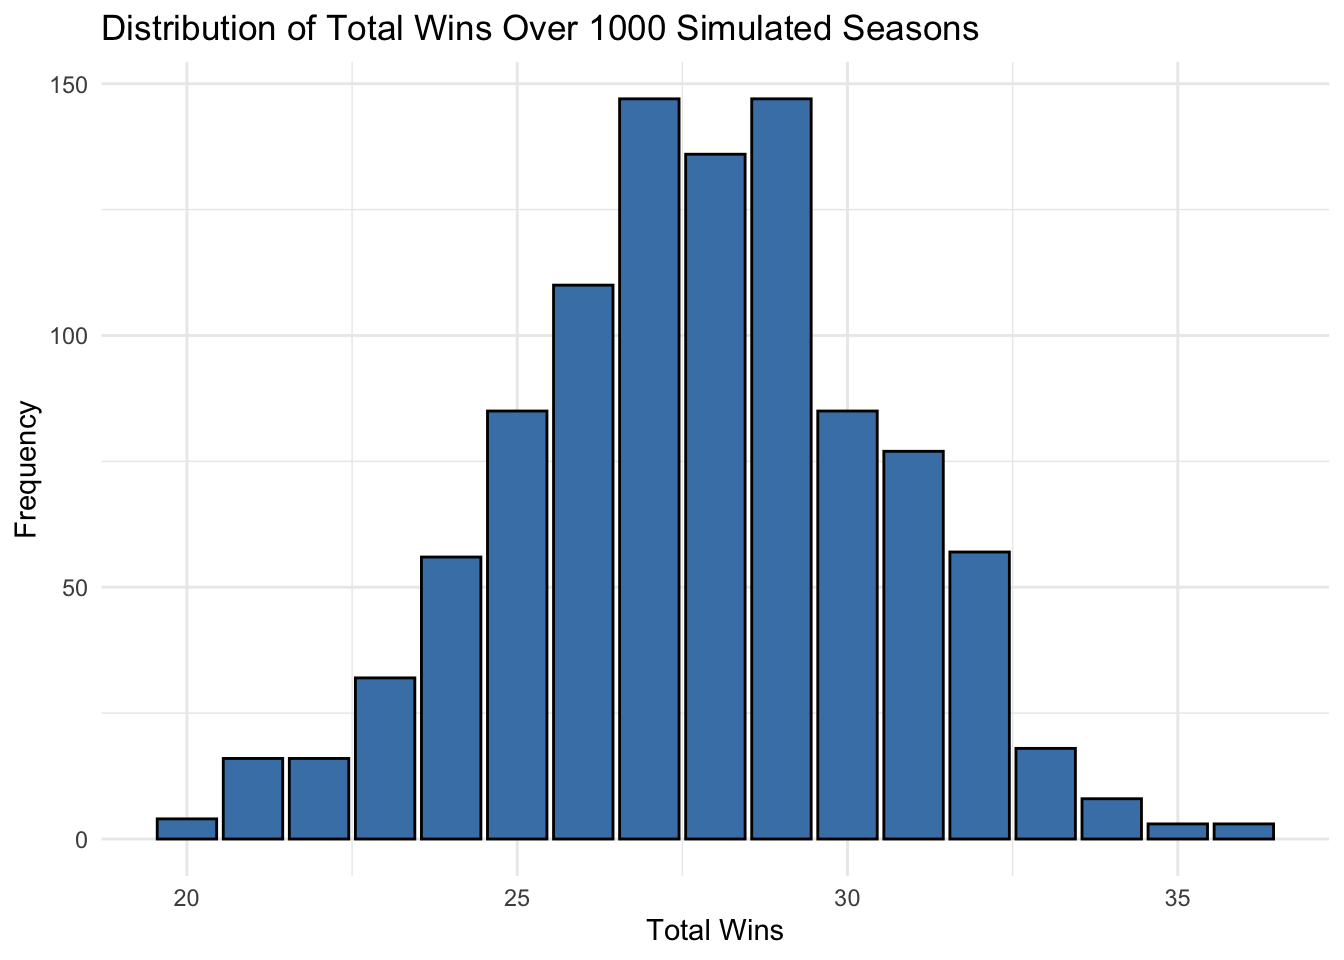
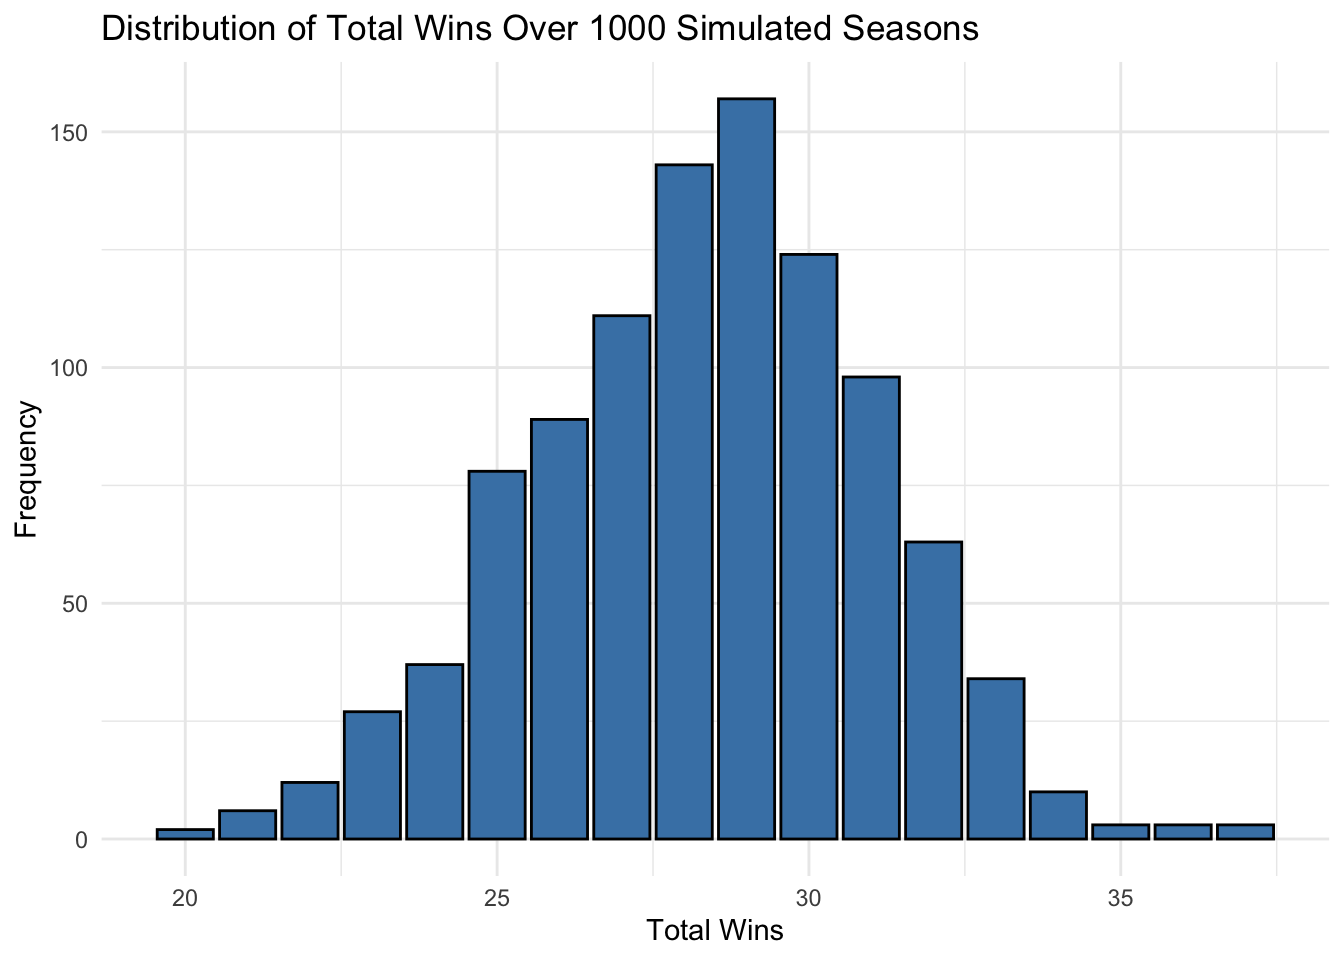
updating schedule. La Verne +1 game

diff --git a/docs/Final6.html b/docs/Final6.html
@@ -204,7 +204,7 @@ pre > code.sourceCode > span > a:first-child::before { text-decoration: underlin
 <div class="sourceCode cell-code" id="cb1"><pre class="sourceCode r code-with-copy"><code class="sourceCode r"><span id="cb1-1"><a href="#cb1-1" aria-hidden="true" tabindex="-1"></a><span class="co"># Create a multi-line string with your data</span></span>
 <span id="cb1-2"><a href="#cb1-2" aria-hidden="true" tabindex="-1"></a>raw_text <span class="ot">&lt;-</span> <span class="st">"</span></span>
 <span id="cb1-3"><a href="#cb1-3" aria-hidden="true" tabindex="-1"></a><span class="st">CMS 0.56 3</span></span>
-<span id="cb1-4"><a href="#cb1-4" aria-hidden="true" tabindex="-1"></a><span class="st">La_Verne 0.55 3</span></span>
+<span id="cb1-4"><a href="#cb1-4" aria-hidden="true" tabindex="-1"></a><span class="st">La_Verne 0.55 4</span></span>
 <span id="cb1-5"><a href="#cb1-5" aria-hidden="true" tabindex="-1"></a><span class="st">ETBU 0.53 3</span></span>
 <span id="cb1-6"><a href="#cb1-6" aria-hidden="true" tabindex="-1"></a><span class="st">Occidental 0.85 3</span></span>
 <span id="cb1-7"><a href="#cb1-7" aria-hidden="true" tabindex="-1"></a><span class="st">Cal_Lu 0.60 3</span></span>
@@ -228,7 +228,7 @@ pre > code.sourceCode > span > a:first-child::before { text-decoration: underlin
 <div class="cell-output cell-output-stdout">
 <pre><code>               team win_prob games
 1               CMS     0.56     3
-2          La_Verne     0.55     3
+2          La_Verne     0.55     4
 3              ETBU     0.53     3
 4        Occidental     0.85     3
 5            Cal_Lu     0.60     3
@@ -255,7 +255,7 @@ pre > code.sourceCode > span > a:first-child::before { text-decoration: underlin
 <span id="cb3-8"><a href="#cb3-8" aria-hidden="true" tabindex="-1"></a>  <span class="at">win_prob =</span> <span class="fu">c</span>(<span class="fl">0.56</span>, <span class="fl">0.55</span>, <span class="fl">0.53</span>, <span class="fl">0.85</span>, <span class="fl">0.60</span>, <span class="fl">0.95</span>, <span class="fl">0.84</span>,</span>
 <span id="cb3-9"><a href="#cb3-9" aria-hidden="true" tabindex="-1"></a>               <span class="fl">0.71</span>, <span class="fl">0.73</span>, <span class="fl">0.60</span>, <span class="fl">0.74</span>, <span class="fl">0.60</span>,</span>
 <span id="cb3-10"><a href="#cb3-10" aria-hidden="true" tabindex="-1"></a>               <span class="fl">0.80</span>, <span class="fl">0.54</span>, <span class="fl">0.65</span>),</span>
-<span id="cb3-11"><a href="#cb3-11" aria-hidden="true" tabindex="-1"></a>  <span class="at">games =</span> <span class="fu">c</span>(<span class="dv">3</span>, <span class="dv">3</span>, <span class="dv">3</span>, <span class="dv">3</span>, <span class="dv">3</span>, <span class="dv">3</span>, <span class="dv">4</span>,</span>
+<span id="cb3-11"><a href="#cb3-11" aria-hidden="true" tabindex="-1"></a>  <span class="at">games =</span> <span class="fu">c</span>(<span class="dv">3</span>, <span class="dv">4</span>, <span class="dv">3</span>, <span class="dv">3</span>, <span class="dv">3</span>, <span class="dv">3</span>, <span class="dv">4</span>,</span>
 <span id="cb3-12"><a href="#cb3-12" aria-hidden="true" tabindex="-1"></a>            <span class="dv">3</span>, <span class="dv">2</span>, <span class="dv">3</span>, <span class="dv">3</span>, <span class="dv">1</span>,</span>
 <span id="cb3-13"><a href="#cb3-13" aria-hidden="true" tabindex="-1"></a>            <span class="dv">2</span>, <span class="dv">1</span>, <span class="dv">3</span>)</span>
 <span id="cb3-14"><a href="#cb3-14" aria-hidden="true" tabindex="-1"></a>)</span>
@@ -302,17 +302,17 @@ Attaching package: 'dplyr'</code></pre>
    team             win_prob games  wins losses
    &lt;chr&gt;               &lt;dbl&gt; &lt;dbl&gt; &lt;int&gt;  &lt;dbl&gt;
  1 CMS                  0.56     3     1      2
- 2 La Verne             0.55     3     1      2
+ 2 La Verne             0.55     4     1      3
  3 ETBU                 0.53     3     1      2
- 4 Occidental           0.85     3     3      0
+ 4 Occidental           0.85     3     2      1
  5 Cal Lu               0.6      3     2      1
  6 Cal Tech             0.95     3     2      1
- 7 Whittier             0.84     4     3      1
- 8 Lewis and Clark      0.71     3     1      2
- 9 Pacific Lutheran     0.73     2     2      0
+ 7 Whittier             0.84     4     2      2
+ 8 Lewis and Clark      0.71     3     2      1
+ 9 Pacific Lutheran     0.73     2     1      1
 10 Chapman              0.6      3     1      2
 11 Redlands             0.74     3     2      1
-12 Williamette          0.6      1     0      1
+12 Williamette          0.6      1     1      0
 13 MIT                  0.8      2     1      1
 14 UW La Crosse         0.54     1     1      0
 15 Tufts                0.65     3     2      1</code></pre>
@@ -325,11 +325,11 @@ Season Summary:</code></pre>
 </div>
 <div class="sourceCode cell-code" id="cb11"><pre class="sourceCode r code-with-copy"><code class="sourceCode r"><span id="cb11-1"><a href="#cb11-1" aria-hidden="true" tabindex="-1"></a><span class="fu">cat</span>(<span class="st">"Total Wins:"</span>, season<span class="sc">$</span>total_wins, <span class="st">"</span><span class="sc">\n</span><span class="st">"</span>)</span></code><button title="Copy to Clipboard" class="code-copy-button"><i class="bi"></i></button></pre></div>
 <div class="cell-output cell-output-stdout">
-<pre><code>Total Wins: 23 </code></pre>
+<pre><code>Total Wins: 22 </code></pre>
 </div>
 <div class="sourceCode cell-code" id="cb13"><pre class="sourceCode r code-with-copy"><code class="sourceCode r"><span id="cb13-1"><a href="#cb13-1" aria-hidden="true" tabindex="-1"></a><span class="fu">cat</span>(<span class="st">"Total Losses:"</span>, season<span class="sc">$</span>total_losses, <span class="st">"</span><span class="sc">\n</span><span class="st">"</span>)</span></code><button title="Copy to Clipboard" class="code-copy-button"><i class="bi"></i></button></pre></div>
 <div class="cell-output cell-output-stdout">
-<pre><code>Total Losses: 17 </code></pre>
+<pre><code>Total Losses: 19 </code></pre>
 </div>
 </div>
 <div class="cell">
@@ -346,7 +346,7 @@ Season Summary:</code></pre>
 <span id="cb15-11"><a href="#cb15-11" aria-hidden="true" tabindex="-1"></a>  <span class="at">win_prob =</span> <span class="fu">c</span>(<span class="fl">0.56</span>, <span class="fl">0.55</span>, <span class="fl">0.53</span>, <span class="fl">0.85</span>, <span class="fl">0.60</span>, <span class="fl">0.95</span>, <span class="fl">0.84</span>,</span>
 <span id="cb15-12"><a href="#cb15-12" aria-hidden="true" tabindex="-1"></a>               <span class="fl">0.71</span>, <span class="fl">0.73</span>, <span class="fl">0.60</span>, <span class="fl">0.74</span>, <span class="fl">0.60</span>,</span>
 <span id="cb15-13"><a href="#cb15-13" aria-hidden="true" tabindex="-1"></a>               <span class="fl">0.80</span>, <span class="fl">0.54</span>, <span class="fl">0.65</span>),</span>
-<span id="cb15-14"><a href="#cb15-14" aria-hidden="true" tabindex="-1"></a>  <span class="at">games =</span> <span class="fu">c</span>(<span class="dv">3</span>, <span class="dv">3</span>, <span class="dv">3</span>, <span class="dv">3</span>, <span class="dv">3</span>, <span class="dv">3</span>, <span class="dv">4</span>,</span>
+<span id="cb15-14"><a href="#cb15-14" aria-hidden="true" tabindex="-1"></a>  <span class="at">games =</span> <span class="fu">c</span>(<span class="dv">3</span>, <span class="dv">4</span>, <span class="dv">3</span>, <span class="dv">3</span>, <span class="dv">3</span>, <span class="dv">3</span>, <span class="dv">4</span>,</span>
 <span id="cb15-15"><a href="#cb15-15" aria-hidden="true" tabindex="-1"></a>            <span class="dv">3</span>, <span class="dv">2</span>, <span class="dv">3</span>, <span class="dv">3</span>, <span class="dv">1</span>,</span>
 <span id="cb15-16"><a href="#cb15-16" aria-hidden="true" tabindex="-1"></a>            <span class="dv">2</span>, <span class="dv">1</span>, <span class="dv">3</span>)</span>
 <span id="cb15-17"><a href="#cb15-17" aria-hidden="true" tabindex="-1"></a>)</span>
@@ -386,7 +386,7 @@ Season Summary:</code></pre>
 <pre><code># A tibble: 1 × 4
   avg_wins sd_wins max_wins min_wins
      &lt;dbl&gt;   &lt;dbl&gt;    &lt;int&gt;    &lt;int&gt;
-1     27.7    2.79       36       20</code></pre>
+1     28.3    2.74       37       20</code></pre>
 </div>
 </div>
 <div class="cell">
@@ -404,7 +404,7 @@ Season Summary:</code></pre>
 <span id="cb17-12"><a href="#cb17-12" aria-hidden="true" tabindex="-1"></a>  <span class="at">win_prob =</span> <span class="fu">c</span>(<span class="fl">0.56</span>, <span class="fl">0.55</span>, <span class="fl">0.53</span>, <span class="fl">0.85</span>, <span class="fl">0.60</span>, <span class="fl">0.95</span>, <span class="fl">0.84</span>,</span>
 <span id="cb17-13"><a href="#cb17-13" aria-hidden="true" tabindex="-1"></a>               <span class="fl">0.71</span>, <span class="fl">0.73</span>, <span class="fl">0.60</span>, <span class="fl">0.74</span>, <span class="fl">0.60</span>,</span>
 <span id="cb17-14"><a href="#cb17-14" aria-hidden="true" tabindex="-1"></a>               <span class="fl">0.80</span>, <span class="fl">0.54</span>, <span class="fl">0.65</span>),</span>
-<span id="cb17-15"><a href="#cb17-15" aria-hidden="true" tabindex="-1"></a>  <span class="at">games =</span> <span class="fu">c</span>(<span class="dv">3</span>, <span class="dv">3</span>, <span class="dv">3</span>, <span class="dv">3</span>, <span class="dv">3</span>, <span class="dv">3</span>, <span class="dv">4</span>,</span>
+<span id="cb17-15"><a href="#cb17-15" aria-hidden="true" tabindex="-1"></a>  <span class="at">games =</span> <span class="fu">c</span>(<span class="dv">3</span>, <span class="dv">4</span>, <span class="dv">3</span>, <span class="dv">3</span>, <span class="dv">3</span>, <span class="dv">3</span>, <span class="dv">4</span>,</span>
 <span id="cb17-16"><a href="#cb17-16" aria-hidden="true" tabindex="-1"></a>            <span class="dv">3</span>, <span class="dv">2</span>, <span class="dv">3</span>, <span class="dv">3</span>, <span class="dv">1</span>,</span>
 <span id="cb17-17"><a href="#cb17-17" aria-hidden="true" tabindex="-1"></a>            <span class="dv">2</span>, <span class="dv">1</span>, <span class="dv">3</span>)</span>
 <span id="cb17-18"><a href="#cb17-18" aria-hidden="true" tabindex="-1"></a>)</span>
